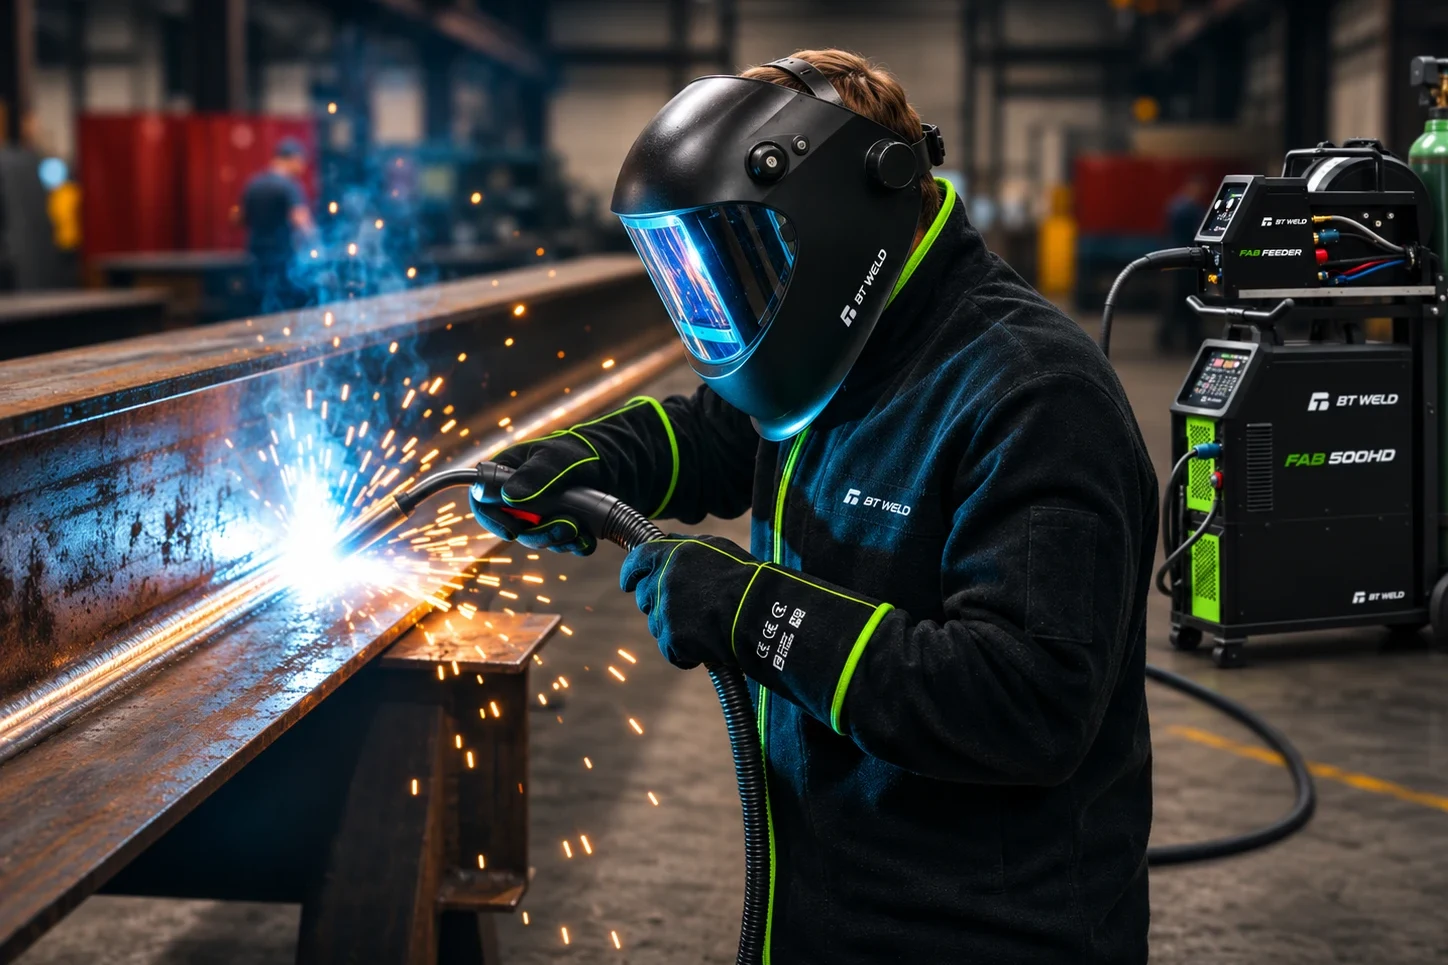
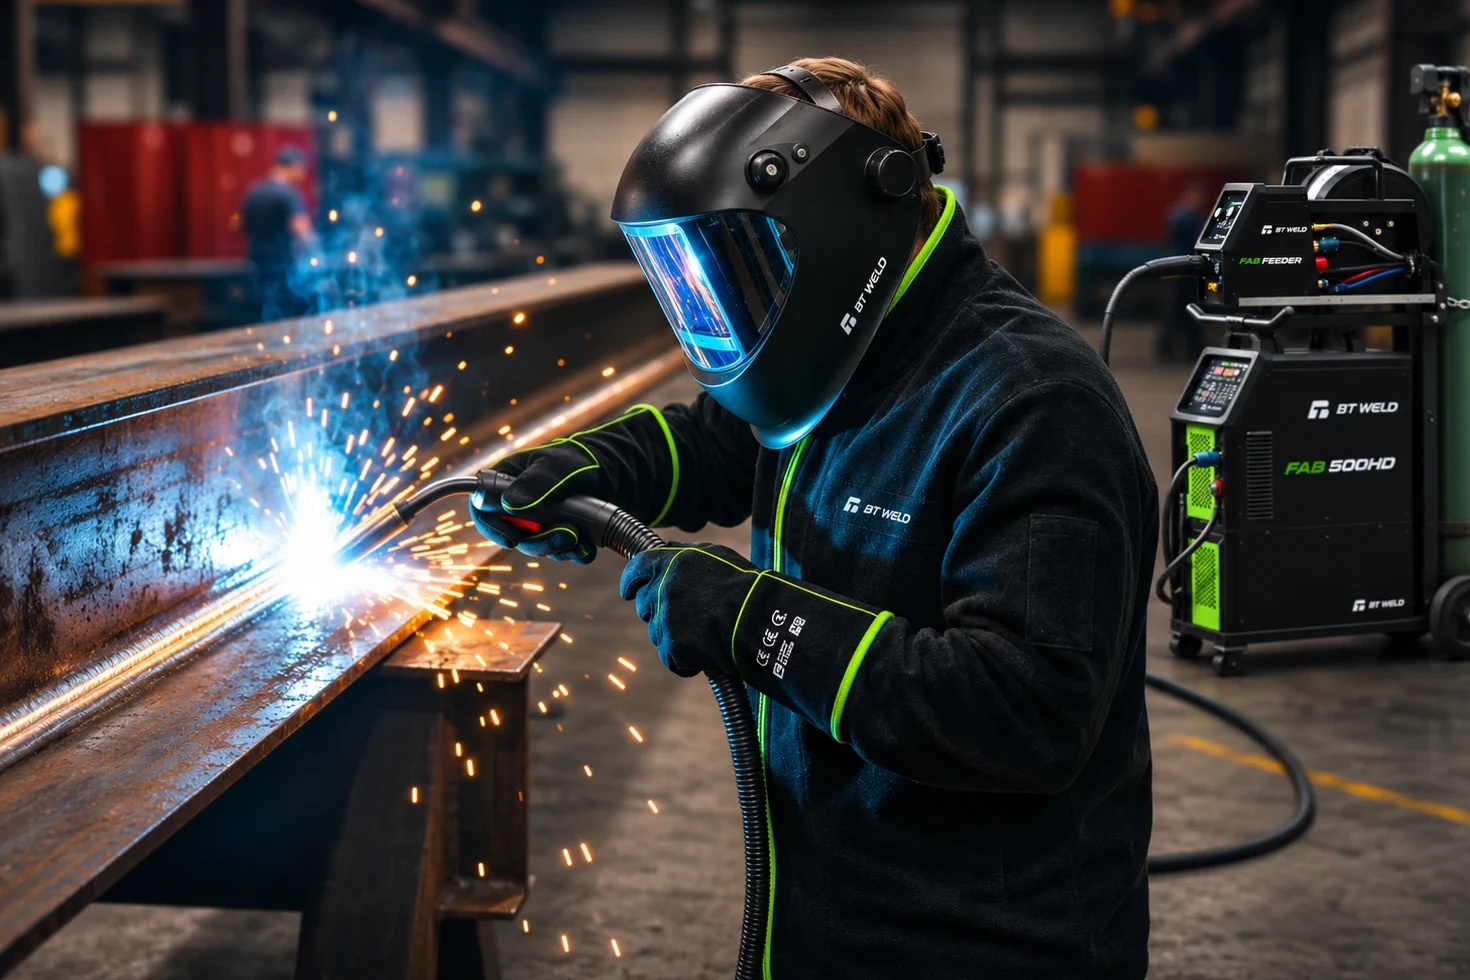
Show more of gas bottle on 01 card: lighter crop, drop 4% zoom

diff --git a/mockup-button/assets/css/fab500hd.css b/mockup-button/assets/css/fab500hd.css
@@ -2508,7 +2508,6 @@ footer.bt-trust { position: static; padding-bottom: 80px; }
 
 /* Trim the thin white frame baked into the supplied steel-fabrication photo */
 .bt-app { overflow: hidden; }
-.bt-app__img[src*="steel-fabrication"] { transform: scale(1.04); }
 
 /* Product shot across the top of the demo panel, bleeding to its edges */
 .bt-panel__img {

diff --git a/mockup/assets/css/fab500hd.css b/mockup/assets/css/fab500hd.css
@@ -2508,4 +2508,3 @@ footer.bt-trust { position: static; padding-bottom: 80px; }
 
 /* Trim the thin white frame baked into the supplied steel-fabrication photo */
 .bt-app { overflow: hidden; }
-.bt-app__img[src*="steel-fabrication"] { transform: scale(1.04); }
